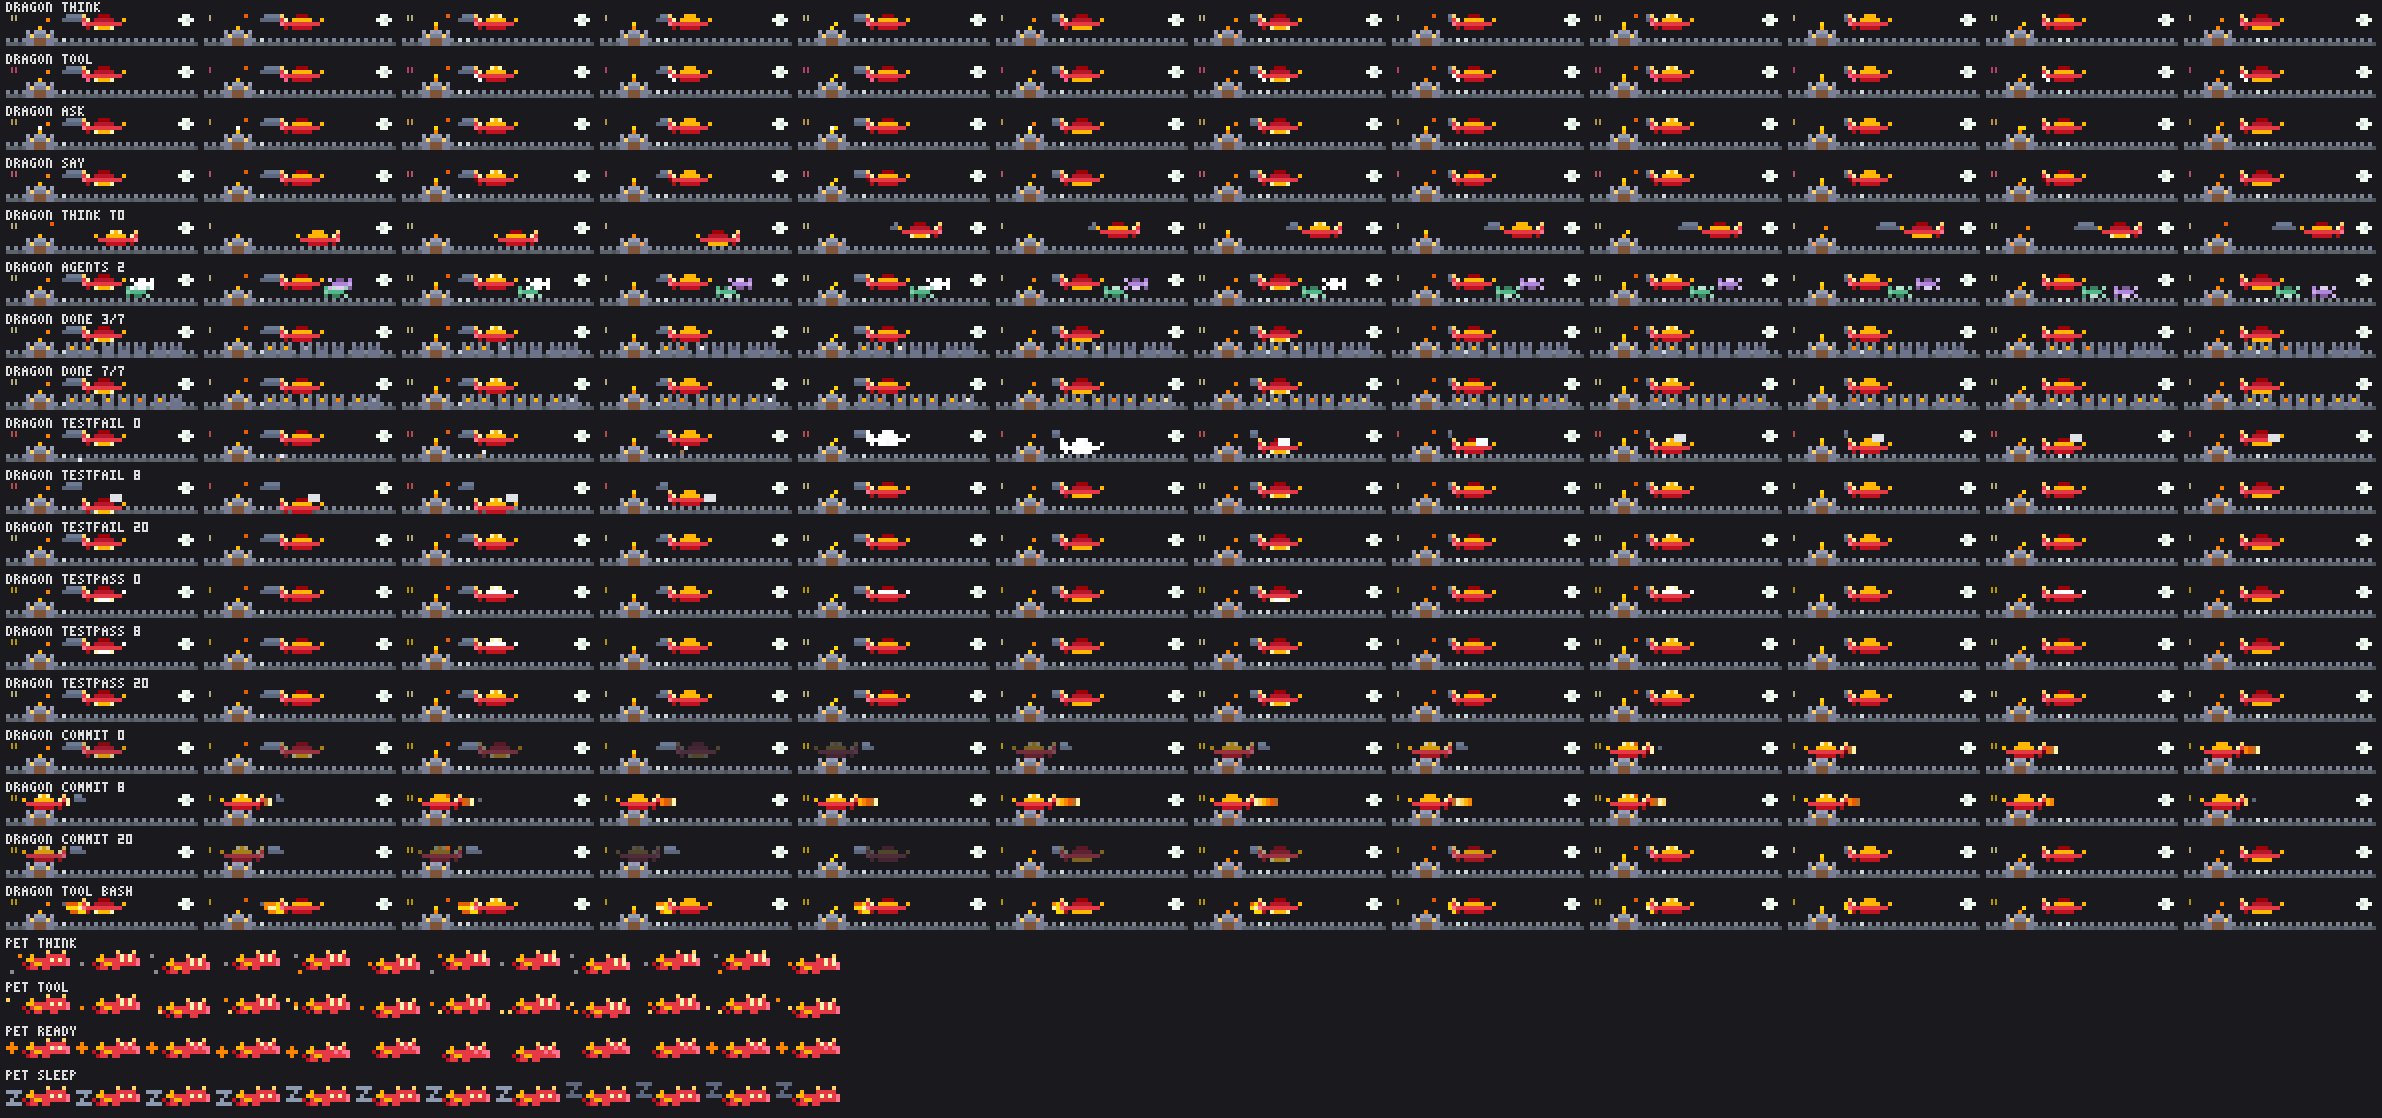
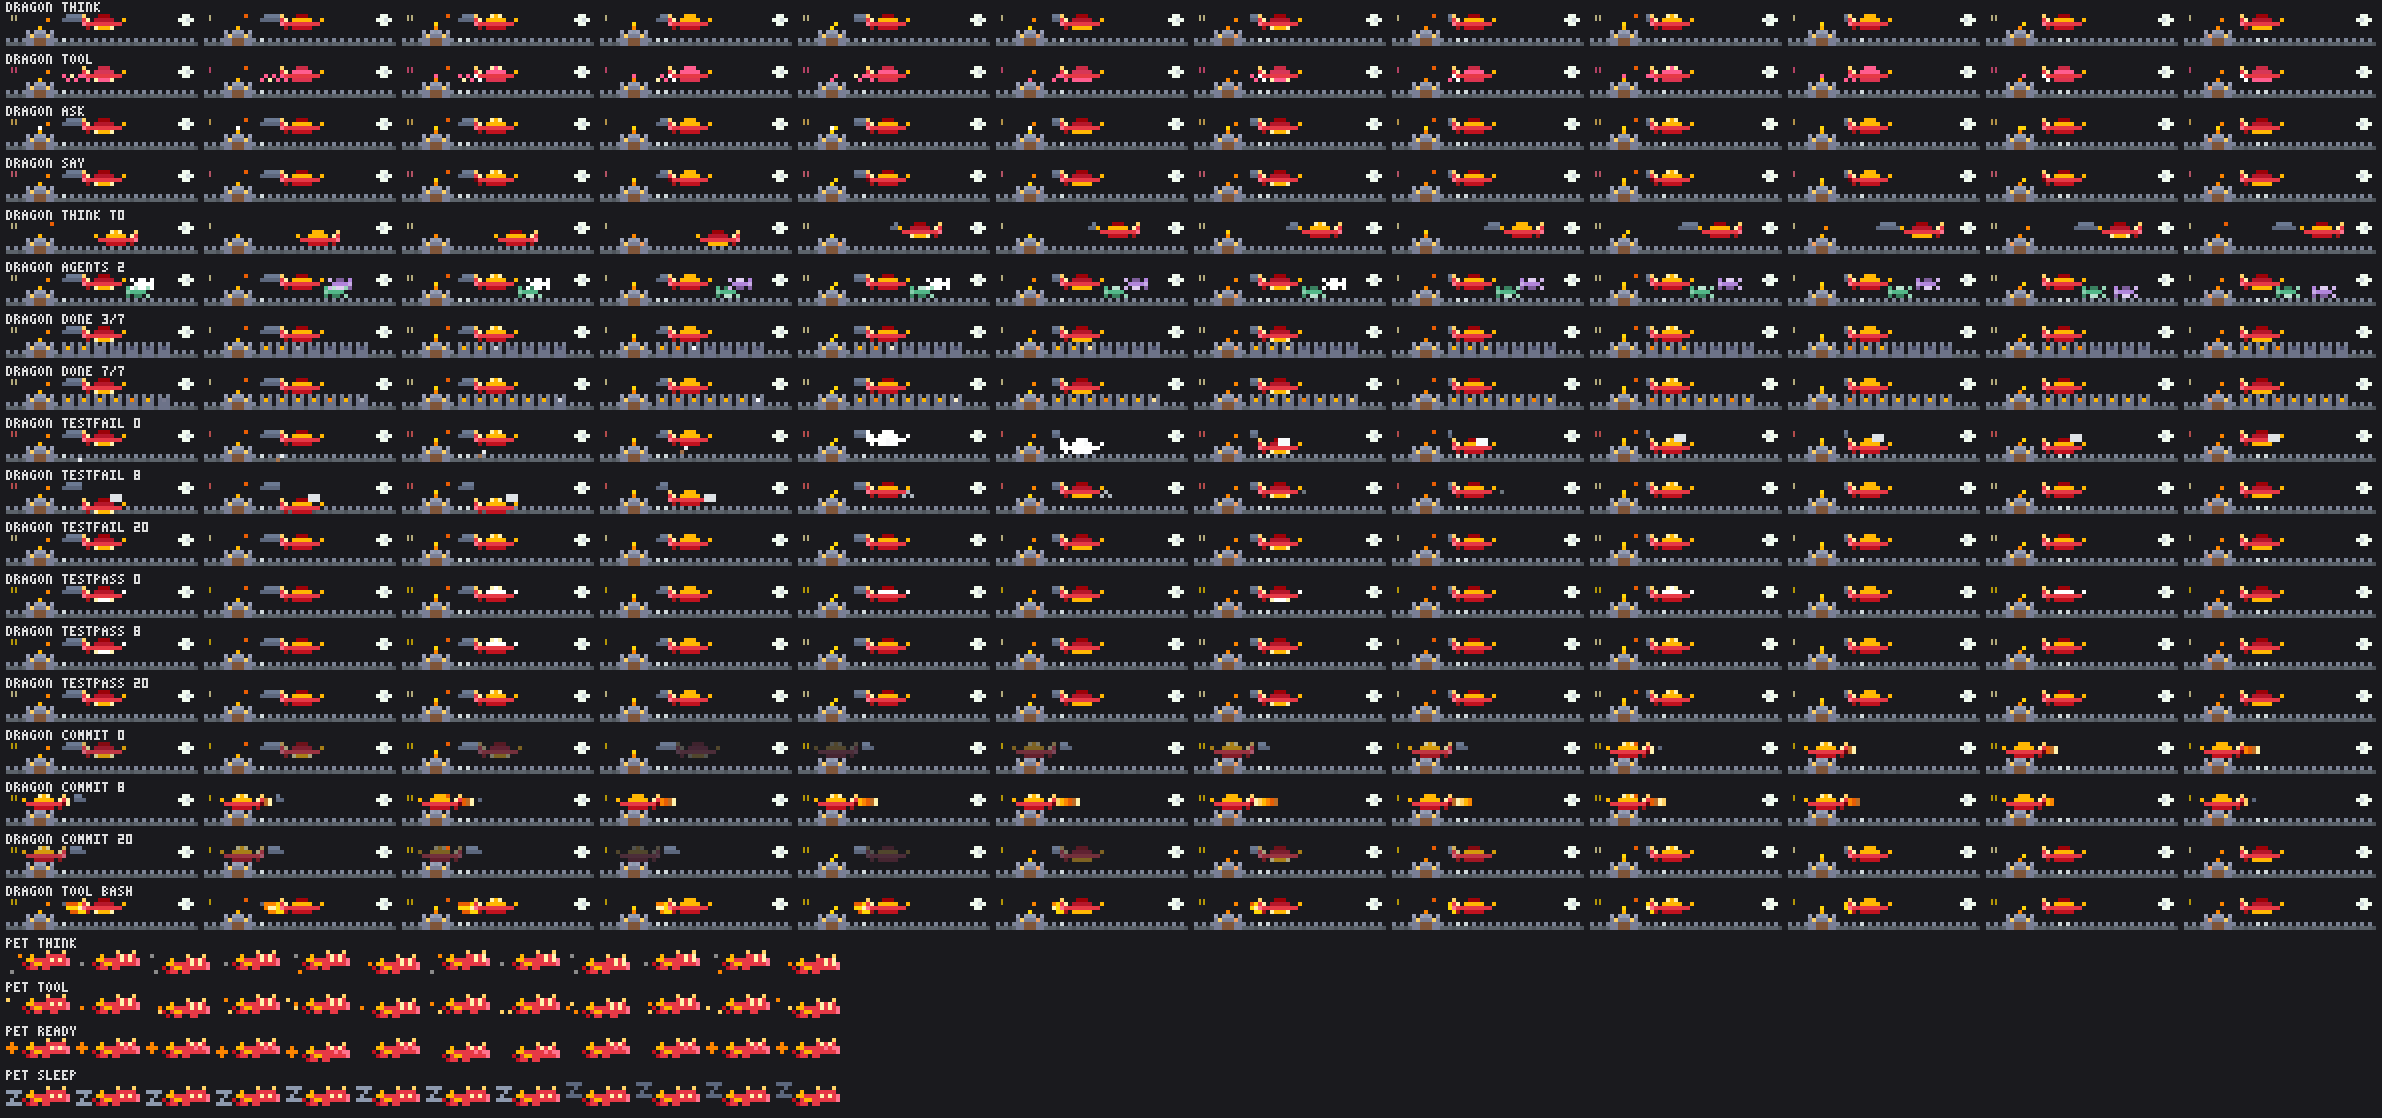
showtime: dragon review fixes — the fire cone stays through a reaction, dipping with the dragon on a failed test and fading with it on a commit (it may still appear or vanish at a change into or out of bash, as ruled); the failed-test puff runs its own sixteen frames apart from the dip, shrinking 2,

diff --git a/showtime/hooks/themes/dragon.ts b/showtime/hooks/themes/dragon.ts
@@ -36,10 +36,10 @@ const WYVERN = ['F.dd.H', '.TBBNS', 'F.dd.J']
 const [DRAGON_W, WYVERN_W, WYVERN_DX, MAX_WYVERNS] = [11, 6, 2, 4]
 /** The keep's left column and width; the flyers' zone from ZONE_X to w - ZONE_R; the most swing; the sign. */
 const [KEEP_X, KEEP_W, ZONE_X, ZONE_R, MAX_A, SIGN_X, MAX_TOWERS] = [5, 7, 14, 7, 22, 1, 12]
-/** Frames: an act's change; the cone's columns (grown one a still frame); a greeting, a window brightening. */
-const [CHANGE, CONE, GREET, BRIGHT] = [4, 4, 8, 8]
-/** testFail: the arrow's flight; the dip a frame from the hit (a cell for six frames); the puff; testPass. */
-const [HIT, DIP, PUFF, PASS] = [4, [0, 2, 2, 2, 2, 2, 2, 0], 12, 12] as const
+/** Frames: an act's change; the cone's and sparks' columns (one a still frame); a greeting; a window brightening. */
+const [CHANGE, CONE, SPARKS, GREET, BRIGHT] = [4, 4, 8, 8, 8]
+/** testFail: the arrow's flight; from the hit, the dip (a cell down six frames, two back), the puff; testPass. */
+const [HIT, DIP, PUFF, PASS] = [4, 9, 12, 12]
 /** commit (newsAge bounds): fading off its path, onto the keep, roaring, off the keep, back onto its path. */
 const [OFF, ON, ROAR, LEAVE, BACK, ROAR_LEN] = [4, 8, 20, 24, 28, 6]
 
@@ -50,7 +50,7 @@ const [STONE, STONE_DARK, STONE_TOP, TOWER, KEEP, KEEP_TOP, GATE, BOWL] =
 const [WINDOW_OFF, LAMP, MOON, CRATER, CLOUD, CLOUD_TOP, FADE_TO] =
   ['#4a4e69', '#ffd166', '#f1faee', '#cfd8dc', '#5c677d', '#6c7a93', '#262a36']
 /** The arrow (head, shaft), the puff, the roar's rings, the wyverns' hues. */
-const [STEEL, SHAFT, PUFF_INK] = ['#e9ecef', '#a47148', ['#f8f9fa', '#dee2e6', '#adb5bd']] as const
+const [STEEL, SHAFT, PUFF_INK] = ['#e9ecef', '#a47148', ['#f8f9fa', '#dee2e6', '#adb5bd', '#6c757d']] as const
 const RING_INK = [PALE, LAMP, GOLD, EMBER, DEEP_EMBER, '#bc6c25']
 const HUES = ['#52b788', '#b185db', '#4cc9f0', '#f4a261']
 const DRAGON_INK: Record<string, string> = { F: GOLD, T: RED, B: RED, N: RED, H: RED, K: LAMP, E: PALE, S: '#ff758f',
@@ -85,12 +85,19 @@ function fly(t: number, g: Geo): Fly {
   return { x: g.cx + Math.round(g.a * Math.sin(th)), y, face: s < half ? 1 : -1, since, until: half - since }
 }
 
-/** How long the cone has grown over the last `window` frames: a column on each frame the dragon held its column,
- * so its tip never moves two in a frame (CONE at most). */
-function grown(t: number, g: Geo, window: number): number {
+/** How far a breath (fire or sparks) has grown over the last `window` frames: a column on each frame the dragon
+ * held its column, so its tip never moves two in a frame (`most` at most). */
+function grown(t: number, g: Geo, window: number, most: number): number {
   let n = 0
-  for (let j = 0; j < window && n < CONE; j++) if (fly(t - j, g).x === fly(t - j - 1, g).x) n++
+  for (let j = 0; j < window && n < most; j++) if (fly(t - j, g).x === fly(t - j - 1, g).x) n++
   return n
+}
+
+/** Its height `i` frames after the arrow hit at `t0`: the hit's height, a cell lower for six frames, then up a cell
+ * a frame to where its path is at the dip's end; never back up past that, so the path goes on from there. */
+function dipTop(g: Geo, t0: number, i: number): number {
+  const [held, end] = [fly(t0, g).y, fly(t0 + DIP, g).y]
+  return i === 0 ? held : i < 7 ? held + 2 : Math.max(end, held + 2 - 2 * (i - 6))
 }
 
 /** Draws `art` (rows of keys) at (x, y), mirrored when facing left, each key's colour through `ink`. */
@@ -104,14 +111,15 @@ function sprite(cv: Canvas, x: number, y: number, face: 1 | -1, art: string[][],
 }
 
 /** The dragon, its wings on frame `wing`, its jaws open (the snout dark, a mouth over the jaw) when `open`;
- * `nose` recolours its snout and jaw (a tool's sparks). */
+ * `nose` recolours its snout and jaw, `wingInk` its wing (lit, and tinting the rest: a tool's colour). */
 function dragon(cv: Canvas, x: number, y: number, face: 1 | -1, wing: number, ink: Ink, open = false,
-  nose?: string): void {
+  nose?: string, wingInk = GOLD): void {
   const art = DRAGON_ART.map(r => [...r])
   if (open) art[2]![10] = 'M'
   const lit = WING_LIT[mod(wing, WING_LIT.length)]!
   const keys: Record<string, string> = { ...DRAGON_INK, ...(nose ? { S: nose, J: nose } : {}) }
-  for (const k of 'daL') keys[k] = lit.includes(k) ? GOLD : WING_DIM[k]!
+  const dim = (k: string) => (wingInk === GOLD ? WING_DIM[k]! : mix(WING_DIM[k]!, wingInk, 0.45))
+  for (const k of 'daL') keys[k] = lit.includes(k) ? wingInk : dim(k)
   sprite(cv, x, y, face, art, keys, ink)
   // The lit wing's first and last columns pale at the top and the bottom of the beat.
   const edge = mod(wing, 6) === 0 ? [0, 4, 6] : mod(wing, 6) === 4 ? [3, 3, 7] : undefined
@@ -130,14 +138,23 @@ function wyvern(cv: Canvas, f: Fly, up: boolean, hue: string, flash: boolean): v
 /** The fire cone ahead of the jaws, `len` columns: a core along the snout's row, edges over the head's and the
  * jaw's rows (fire under the snout joins it to the jaw, so it stays one shape with the head in every cell row);
  * core, edges and tip trade colours every frame; the lower edge grows in a column behind the rest. */
-function cone(cv: Canvas, f: Fly, y: number, len: number, t: number): void {
+function cone(cv: Canvas, f: Fly, y: number, len: number, t: number, ink: Ink): void {
   const odd = mod(t, 2) === 1
-  if (len > 0) plot(cv, f.face > 0 ? f.x + DRAGON_W - 1 : f.x, y + 3, FLAME)
+  if (len > 0) plot(cv, f.face > 0 ? f.x + DRAGON_W - 1 : f.x, y + 3, ink(FLAME))
   for (let i = 0; i < len; i++) {
     const x = f.face > 0 ? f.x + DRAGON_W + i : f.x - 1 - i
-    plot(cv, x, y + 2, i === 3 ? (odd ? EMBER : FLAME) : (i === 0) === odd ? FLAME : PALE)
-    plot(cv, x, y + 1, i === 0 ? FLAME : odd ? EMBER : DEEP_EMBER)
-    if (i < Math.min(3, len - 1)) plot(cv, x, y + 3, i === 0 ? FLAME : odd ? EMBER : DEEP_EMBER)
+    plot(cv, x, y + 2, ink(i === 3 ? (odd ? EMBER : FLAME) : (i === 0) === odd ? FLAME : PALE))
+    plot(cv, x, y + 1, ink(i === 0 ? FLAME : odd ? EMBER : DEEP_EMBER))
+    if (i < Math.min(3, len - 1)) plot(cv, x, y + 3, ink(i === 0 ? FLAME : odd ? EMBER : DEEP_EMBER))
+  }
+}
+
+/** Sparks streaming off its nose in a tool's colour, `len` columns: a checkerboard over the snout's and jaw's
+ * rows (one cell row, so it stays one shape with the head) flipping every frame, each spark a column further out. */
+function sparks(cv: Canvas, f: Fly, y: number, len: number, t: number, ink: string): void {
+  for (let i = 0; i < len; i++) {
+    const x = f.face > 0 ? f.x + DRAGON_W + i : f.x - 1 - i
+    for (const j of [2, 3]) if (mod(x + j - f.face * t, 2) === 0) plot(cv, x, y + j, i % 3 === 2 ? PALE : ink)
   }
 }
 
@@ -153,7 +170,7 @@ function wall(cv: Canvas, t: number): void {
 
 /** The keep: merlons, two lamplit windows (flickering on fourteen frames), a gate, a brazier in its middle crenel
  * whose flame flickers (flaring a pixel higher, gold and white, `flare` frames into an ask). */
-function keep(cv: Canvas, t: number, flare: number): void {
+function keep(cv: Canvas, t: number, flare: number, hue?: string): void {
   for (let i = 0; i < KEEP_W; i++) {
     if (mod(i, 2) === 0) plot(cv, KEEP_X + i, 4, KEEP_TOP)
     for (let y = 5; y < 8; y++) plot(cv, KEEP_X + i, y, i >= 2 && i <= 4 && y >= 6 ? GATE : KEEP)
@@ -161,17 +178,17 @@ function keep(cv: Canvas, t: number, flare: number): void {
   for (const dx of [1, 5]) plot(cv, KEEP_X + dx, 5, mod(t + 5 * dx, 14) < 2 ? '#f4a261' : LAMP)
   const mid = KEEP_X + 3
   plot(cv, mid, 4, BOWL)
-  plot(cv, mid, 3, frame([GOLD, EMBER, FLAME, EMBER], t >> 1))
+  plot(cv, mid, 3, frame([GOLD, EMBER, hue ?? FLAME, EMBER], t >> 1))
   if (flare >= 1) plot(cv, mid, 2, flare >= 3 && mod(t, 4) < 2 ? WHITE : FLAME)
 }
 
 /** Embers off the brazier: two streams, an ember every twelve frames (a few skipped), rising a pixel and drifting
  * right a cell every other frame until they burn out. */
-function embers(cv: Canvas, t: number): void {
+function embers(cv: Canvas, t: number, hue?: string): void {
   for (const off of [0, 6]) {
     const e = mod(t + off, 12)
     if (e >= 7 || noise(Math.floor((t + off) / 12) * 3 + off) < 0.2) continue
-    plot(cv, KEEP_X + 3 + (e >> 1), e < 3 ? 2 : e < 5 ? 1 : 0, e < 3 ? FLAME : e < 5 ? EMBER : DEEP_EMBER)
+    plot(cv, KEEP_X + 3 + (e >> 1), e < 3 ? 2 : e < 5 ? 1 : 0, e < 3 ? hue ?? FLAME : e < 5 ? EMBER : DEEP_EMBER)
   }
 }
 
@@ -191,18 +208,17 @@ function clouds(cv: Canvas, t: number, holes: readonly (readonly [number, number
   }
 }
 
-/** A tower per task along the wall (floor-scaled, spread evenly): merlons, a window lit when done, the newest
- * brightening through white to gold; a lit one flickers on twelve frames, and twinkles on a passed test. */
+/** A tower per task along the wall, four columns apart from the left (floor-scaled): merlons, a window lit when
+ * done, the newest brightening through white to gold; a lit one flickers on twelve frames, twinkles on a pass. */
 function towers(cv: Canvas, s: Signals, t: number, pass: boolean): void {
   const span = cv.w - 3 - ZONE_X
   const count = Math.min(s.total, MAX_TOWERS, Math.max(0, Math.floor(span / 4)))
   const litOf = (d: number) => (s.total > count ? Math.floor((d * count) / s.total) : Math.min(d, count))
   const lit = litOf(s.done)
   for (let k = 0; k < count; k++) {
-    const x = ZONE_X + Math.floor(((k + 0.5) * span) / count) - 1
+    const x = ZONE_X + 4 * k
     for (let c = 0; c < 3; c++) {
-      if (c !== 1) plot(cv, x + c, 4, STONE_TOP)
-      for (let y = 5; y < 8; y++) plot(cv, x + c, y, TOWER)
+      for (let y = c === 1 ? 5 : 4; y < 8; y++) plot(cv, x + c, y, y === 4 ? STONE_TOP : TOWER)
     }
     let win = k < lit ? (mod(t + 5 * k, 12) < 2 ? EMBER : GOLD) : WINDOW_OFF
     if (k === lit - 1 && s.doneAge < BRIGHT && lit > litOf(s.done - 1)) {
@@ -225,7 +241,7 @@ function sign(s: Signals, t: number, news: 'fail' | 'pass' | 'commit' | undefine
 export function dragonScene(t: number, w: number, s: Signals): Grid {
   const cv = canvas(w, SCENE_ROWS)
   const g = geoOf(w)
-  const fail = s.news === 'testFail' && s.newsAge < HIT + DIP.length ? s.newsAge : -1
+  const fail = s.news === 'testFail' && s.newsAge < HIT + PUFF ? s.newsAge : -1
   const pass = s.news === 'testPass' && s.newsAge < PASS
   const ca = s.news === 'commit' && s.newsAge < BACK ? s.newsAge : -1
   // On a commit it fades off its path, onto the keep, roars, and back the same way.
@@ -238,15 +254,17 @@ export function dragonScene(t: number, w: number, s: Signals): Grid {
   // Fading off its path it holds the pose it had as the commit began (`t - newsAge`); back on it, the live one.
   const f = fly(ca >= 0 && ca < OFF ? t - ca : t, g)
   // Dipping, it keeps the height it was hit at (its path's own drop held off), so it moves a cell a frame at most.
-  const dipping = fail >= HIT && fail < HIT + DIP.length
-  const top = dipping ? fly(t - fail + HIT, g).y + DIP[fail - HIT]! : f.y
-  // Its props belong to the act, held off through a reaction and around each turn (so none swaps sides).
+  const top = fail >= HIT && fail < HIT + DIP ? dipTop(g, t - fail + HIT, fail - HIT) : f.y
+  // Its props belong to the act, held off through a reaction and around each turn (so none swaps sides); the fire
+  // stays through a reaction, dipping and fading with it. Both stop short of the keep and the moon.
   const free = ca < 0 && fail < 0
-  const bash = free && s.act === 'tool' && s.tool === 'bash'
-  // The cone stops short of the keep and the moon (its tip held there as the dragon nears them).
+  const tool = s.act === 'tool' ? s.tool ?? 'other' : undefined
   const room = f.face > 0 ? w - 8 - (f.x + DRAGON_W - 1) : f.x - (KEEP_X + KEEP_W + 2)
-  const len = bash ? Math.max(0, Math.min(grown(t, g, Math.min(s.actAge + 1, f.since - 1)), f.until - 2, room)) : 0
-  const spark = free && s.act === 'tool' && s.tool !== 'bash' && s.actAge >= 2
+  const breath = (most: number, from: number) =>
+    Math.max(0, Math.min(grown(t, g, Math.min(s.actAge + 1 - from, f.since - 1), most), f.until - 2, room))
+  const len = tool === 'bash' && !onKeep ? breath(CONE, 0) : 0
+  const spark = free && tool !== undefined && tool !== 'bash' ? breath(SPARKS, 2) : 0
+  const reach = Math.max(len, spark)
   // The wyverns a fifth of a loop apart behind it; the columns clouds hide in (the dragon's with its cone, each
   // wyvern's, the roar's).
   const holes: [number, number][] = []
@@ -254,15 +272,17 @@ export function dragonScene(t: number, w: number, s: Signals): Grid {
   const flock = Array.from({ length: n }, (_, i) => fly(t - Math.round(((i + 1) * g.p) / 5), g))
   for (const v of flock) holes.push([v.x + WYVERN_DX, v.x + WYVERN_DX + WYVERN_W - 1])
   if (onKeep) holes.push([KEEP_X - 1, KEEP_X + DRAGON_W - 2 + blast])
-  else holes.push([f.x - (f.face < 0 ? len : 0), f.x + DRAGON_W - 1 + (f.face > 0 ? len : 0)])
+  else holes.push([f.x - (f.face < 0 ? reach : 0), f.x + DRAGON_W - 1 + (f.face > 0 ? reach : 0)])
 
   // Layer 1: the moon and the clouds; layer 2: the castle and the brazier's embers.
   draw(cv, w - 5, 0, ['.MM.', mod(t, 16) < 8 ? 'MCMM' : 'MMCM', '.MM.'], { M: MOON, C: CRATER })   // a shadow drifting
   clouds(cv, t, holes)
   wall(cv, t)
   towers(cv, s, t, pass)
-  keep(cv, t, s.act === 'ask' ? s.actAge : 0)
-  embers(cv, t)
+  // A tool's colour catches in the brazier and its new embers.
+  const hue = tool && tool !== 'bash' && free ? TOOL_INK[tool] : undefined
+  keep(cv, t, s.act === 'ask' ? s.actAge : 0, hue)
+  embers(cv, t, hue)
   // Layer 3: the wyverns trailing it, the newest greeting as it joins.
   flock.forEach((v, i) => {
     const greet = i === n - 1 && s.agentsAge < GREET && mod(s.agentsAge, 2) === 0
@@ -283,9 +303,12 @@ export function dragonScene(t: number, w: number, s: Signals): Grid {
     }
   } else {
     const open = free && s.act === 'say' && s.actAge >= 2 && mod(t, 6) < 3
-    const nose = spark ? (mod(t, 4) < 2 ? TOOL_INK[s.tool ?? 'other'] : WHITE) : undefined
-    dragon(cv, f.x, top, f.face, ca >= 0 && ca < OFF ? t - ca : t, ink, open, nose)
-    if (len > 0) cone(cv, f, f.y, len, t)
+    // A tool but bash: its nose sparks, its wing lights in the tool's colour (blended in over four frames).
+    const nose = hue && s.actAge >= 2 ? (mod(t, 4) < 2 ? hue : WHITE) : undefined
+    const wingInk = hue ? mix(GOLD, hue, Math.min(1, s.actAge / 4)) : GOLD
+    dragon(cv, f.x, top, f.face, ca >= 0 && ca < OFF ? t - ca : t, ink, open, nose, wingInk)
+    if (len > 0) cone(cv, f, top, len, t, ink)
+    if (hue && spark > 0) sparks(cv, f, top, spark, t, hue)
   }
 
   // testFail: an arrow up from the wall to where it will be at HIT, then a puff there (anchored at the
@@ -297,9 +320,11 @@ export function dragonScene(t: number, w: number, s: Signals): Grid {
       plot(cv, hx - (HIT - fail), hy + HIT - fail, STEEL)
       plot(cv, hx - (HIT - fail) - 1, hy + HIT - fail + 1, SHAFT)
     } else if (fail < HIT + PUFF) {
-      const [q, smoke] = [fail - HIT, PUFF_INK[Math.min(2, (fail - HIT) >> 2)]!]
+      // Two pixels, six, three, then one in the last shade before it is gone.
+      const q = fail - HIT
+      const smoke = PUFF_INK[q < 4 ? 0 : q < 8 ? 1 : q < 10 ? 2 : 3]
       const blob = q < 2 ? [[0, 0], [0, -1]] : q < 8 ? [[-1, 0], [0, 0], [1, 0], [-1, -1], [0, -1], [1, -1]]
-        : [[-1, 0], [1, 0], [0, -1]]
+        : q < 10 ? [[-1, 0], [1, 0], [0, -1]] : [[0, -1]]
       for (const [px, py] of blob) plot(cv, hx + px!, Math.max(0, hy - (q >> 2) + py!), smoke)
     }
   }
